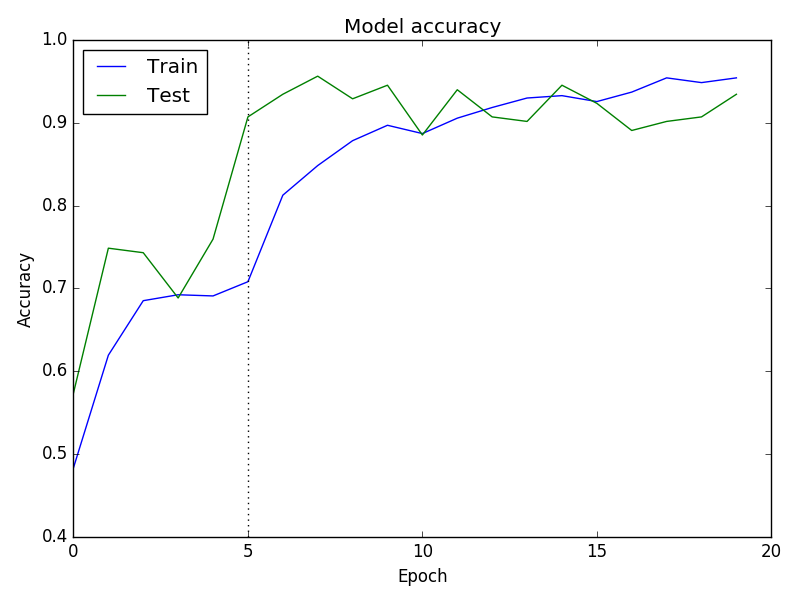
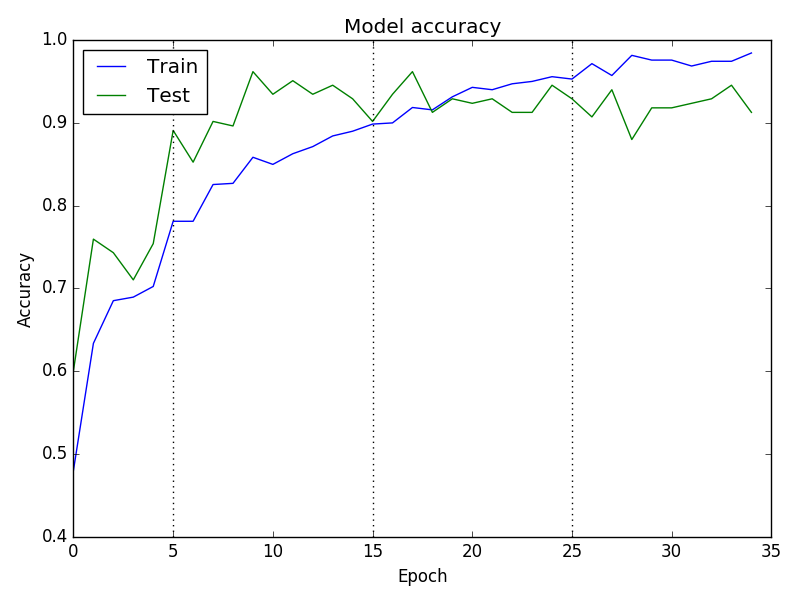
Train deeper layers

diff --git a/src/transfer_CNN.py b/src/transfer_CNN.py
@@ -19,14 +19,37 @@ from print_pretty_confusion_matrix import plot_confusion_matrix_from_data
 from sklearn.metrics import classification_report
 import matplotlib.pyplot as plt
 mpl.style.use('classic')
-np.random.seed(1337)  # for reproducibility
 
+# for reproducibility
+# -----------------------------------------------------------------------------
+seed_value = 42
+
+# 1. Set `PYTHONHASHSEED` environment variable at a fixed value
+os.environ['PYTHONHASHSEED']=str(seed_value)
+
+# 2. Set `python` built-in pseudo-random generator at a fixed value
+import random
+random.seed(seed_value)
+
+# 3. Set `numpy` pseudo-random generator at a fixed value
+np.random.seed(seed_value)
+
+# 4. Set `tensorflow` pseudo-random generator at a fixed value
+import tensorflow as tf
+tf.set_random_seed(seed_value)
+session_conf = tf.ConfigProto(intra_op_parallelism_threads=1, inter_op_parallelism_threads=1)
+
+# 5. Configure a new global `tensorflow` session
+from keras import backend as K
+sess = tf.Session(graph=tf.get_default_graph(), config=session_conf)
+K.set_session(sess)
+# -----------------------------------------------------------------------------
 
 class TranseferModel():
 
     def __init__(self,model=Xception,target_size=(400,400),weights='imagenet',
                 n_categories=4,batch_size=4,augmentation_strength=0.2,
-                preprocessing=preprocess_input,epochs=15):
+                preprocessing=preprocess_input,epochs=10):
         self.model = model
         self.target_size = target_size
         self.input_size = self.target_size + (3,)
@@ -40,18 +63,8 @@ class TranseferModel():
         self.preprocessing = preprocessing
         self.epochs = epochs
         self.class_weights = None
-        self.history1 = None
-        self.history2 = None
-
-    def _create_transfer_model(self):
-        base_model = self.model(weights=self.weights,
-                          include_top=False,
-                          input_shape=self.input_size)
-        x = base_model.output
-        x = GlobalAveragePooling2D()(x)
-        predictions = Dense(self.n_categories, activation='softmax')(x)
-        self.model = Model(inputs=base_model.input, outputs=predictions)
-        return self.model
+        # self.history1 = None
+        # self.history2 = None
 
     def make_generators(self,directory):
         train_data_dir = directory+'/train'
@@ -98,16 +111,31 @@ class TranseferModel():
             shuffle=False)
         return self.train_generator, self.validation_generator, self.holdout_generator
 
+    def _create_transfer_model(self):
+        base_model = self.model(weights=self.weights,
+                          include_top=False,
+                          input_shape=self.input_size)
+        x = base_model.output
+        x = GlobalAveragePooling2D()(x)
+        predictions = Dense(self.n_categories, activation='softmax')(x)
+        self.model = Model(inputs=base_model.input, outputs=predictions)
+        return self.model
+
     def _find_class_weights(self):
         counter = Counter(self.train_generator.classes)
         max_val = float(max(counter.values()))
         self.class_weights = {class_id : max_val/num_images for class_id, num_images in counter.items()}
         return self.class_weights
 
+    def _change_trainable_layers(self, trainable_index):
+        for layer in self.model.layers[:trainable_index]:
+            layer.trainable = False
+        for layer in self.model.layers[trainable_index:]:
+            layer.trainable = True
+
     def fit(self,freeze_indices,optimizers,warmup_epochs=5):
         # callbacks
-        # filepath="models/transfer_CNN-{epoch:02d}-{val_acc:.2f}.h5"
-        filepath='models/transfer_CNN.h5'
+        filepath = 'models/transfer_CNN.h5'
         mc = callbacks.ModelCheckpoint(filepath,
                                             monitor='val_loss',
                                             verbose=1,
@@ -118,9 +146,10 @@ class TranseferModel():
         hist = callbacks.History()
         es = callbacks.EarlyStopping(monitor='val_loss',
                                             min_delta=0,
-                                            patience=4,
+                                            patience=2,
                                             verbose=1,
                                             mode='auto')
+
         if not os.path.exists('tensorboard_logs/transfer_CNN_tensorboard_with_weights'):
             os.makedirs('tensorboard_logs/transfer_CNN_tensorboard_with_weights')
         tensorboard = callbacks.TensorBoard(
@@ -131,42 +160,31 @@ class TranseferModel():
                     embeddings_freq=0,
                     write_images=False)
 
-        #change head
+        # change head from default
         self._create_transfer_model()
-        self.change_trainable_layers(freeze_indices[0])
+        # fix class imbalance
         self._find_class_weights()
-        # train head
-        self.model.compile(optimizer=optimizers[0],
-                      loss='categorical_crossentropy', metrics=['accuracy'])
 
-        self.history1 = self.model.fit_generator(self.train_generator,
-                                  steps_per_epoch=len(self.train_generator),
-                                  epochs=warmup_epochs,
-                                  class_weight=self.class_weights,
-                                  validation_data=self.validation_generator,
-                                  validation_steps=len(self.validation_generator),
-                                  callbacks=[mc, tensorboard, hist])
-        # train more layers
-        self.change_trainable_layers(freeze_indices[1])
+        # train head, then chunks
+        histories = []
+        for i, _ in enumerate(freeze_indices):
+            if i == 0:
+                e = warmup_epochs
+            else:
+                e = self.epochs
+            self._change_trainable_layers(freeze_indices[i])
+            self.model.compile(optimizer=optimizers[i],
+                          loss='categorical_crossentropy', metrics=['accuracy'])
 
-        self.model.compile(optimizer=optimizers[0],
-                      loss='categorical_crossentropy', metrics=['accuracy'])
-
-        self.history2 = self.model.fit_generator(self.train_generator,
-                                  steps_per_epoch=len(self.train_generator),
-                                  epochs=self.epochs,
-                                  class_weight=self.class_weights,
-                                  validation_data=self.validation_generator,
-                                  validation_steps=len(self.validation_generator),
-                                  callbacks=[mc, tensorboard, hist])
-
-        return self.history1, self.history2
-
-    def change_trainable_layers(self, trainable_index):
-        for layer in self.model.layers[:trainable_index]:
-            layer.trainable = False
-        for layer in self.model.layers[trainable_index:]:
-            layer.trainable = True
+            history = self.model.fit_generator(self.train_generator,
+                                      steps_per_epoch=len(self.train_generator),
+                                      epochs=e,
+                                      class_weight=self.class_weights,
+                                      validation_data=self.validation_generator,
+                                      validation_steps=len(self.validation_generator),
+                                      callbacks=[mc, tensorboard, hist])
+            histories.append(history.history)
+        return histories
 
     def best_training_model(self):
         model = load_model('models/transfer_CNN.h5')
@@ -230,30 +248,40 @@ class TranseferModel():
         plt.close()
         return
 
-    def plot_history(self):
+    def _hstack_histories(self,histories,metric):
+        lst = []
+        for hist in histories:
+            lst.append(hist[metric])
+        return tuple(lst)
+
+    def plot_history(self, histories):
         # Plot training & validation accuracy values
-        hist_acc = np.hstack((self.history1.history['acc'],self.history2.history['acc']))
-        hist_val_acc = np.hstack((self.history1.history['val_acc'],self.history2.history['val_acc']))
+        hist_acc = np.hstack(self._hstack_histories(histories,'acc'))
+        hist_val_acc = np.hstack(self._hstack_histories(histories,'val_acc'))
         plt.plot(hist_acc)
         plt.plot(hist_val_acc)
         plt.title('Model accuracy')
         plt.ylabel('Accuracy')
         plt.xlabel('Epoch')
         plt.axvline(5,color='k',linestyle='dotted')
+        plt.axvline(15,color='k',linestyle='dotted')
+        plt.axvline(25,color='k',linestyle='dotted')
         plt.legend(['Train', 'Test'], loc='upper left')
         plt.tight_layout()
         plt.savefig('../graphics/Transfer_CNN_acc_hist.png')
         plt.close()
 
         # Plot training & validation loss values
-        hist_loss = np.hstack((self.history1.history['loss'],self.history2.history['loss']))
-        hist_val_loss = np.hstack((self.history1.history['val_loss'],self.history2.history['val_loss']))
+        hist_loss = np.hstack(self._hstack_histories(histories,'loss'))
+        hist_val_loss = np.hstack(self._hstack_histories(histories,'val_loss'))
         plt.plot(hist_loss)
         plt.plot(hist_val_loss)
         plt.title('Model loss')
         plt.ylabel('Loss')
         plt.xlabel('Epoch')
         plt.axvline(5,color='k',linestyle='dotted')
+        plt.axvline(15,color='k',linestyle='dotted')
+        plt.axvline(25,color='k',linestyle='dotted')
         plt.legend(['Train', 'Test'], loc='upper left')
         plt.tight_layout()
         plt.savefig('../graphics/Transfer_CNN_loss_hist.png')
@@ -263,18 +291,21 @@ if __name__ == '__main__':
     dir = '../data/Banana_People_Not/4_Classes'
     transfer_CNN = TranseferModel()
     transfer_CNN.make_generators(dir)
-    freeze_indices = [132, 126]
-    optimizers = [Adam(lr=0.0005), Adam(lr=0.00005)]
+    freeze_indices = [132, 126, 116 ,106]
+    optimizers = [Adam(lr=0.0005), Adam(lr=0.00005), Adam(lr=0.00005), Adam(lr=0.00005)]
 
-    transfer_CNN.fit(freeze_indices,optimizers)
-    transfer_CNN.plot_history()
+    histories = transfer_CNN.fit(freeze_indices,optimizers)
+    transfer_CNN.plot_history(histories)
 
     # # plot model
     # from keras.utils import plot_model
     # plot_model(transfer_CNN.model, to_file='../graphics/transfer_CNN_model.png')
 
     metrics, data, pred = transfer_CNN.best_training_model()
-    transfer_CNN.print_matrix(data[:,0],data[:,2])
+    # transfer_CNN.print_matrix(data[:,0],data[:,2])
+    # transfer_CNN.return_failed_images(dir,data,pred)
     print(metrics)
-    transfer_CNN.return_failed_images(dir,data,pred)
     print(classification_report(data[:,0],data[:,2]))
+
+    with open(f"models/transfer_CNN_report.txt", "w") as text_file:
+        print(str(metrics)+'\n\n'+str(classification_report(data[:,0],data[:,2])),file=text_file)

diff --git a/src/cmyk_to_rgb.py b/src/cmyk_to_rgb.py
@@ -1,3 +1,6 @@
+# DID NOT END UP USING
+
+
 from PIL import Image
 import os
 import numpy as np
